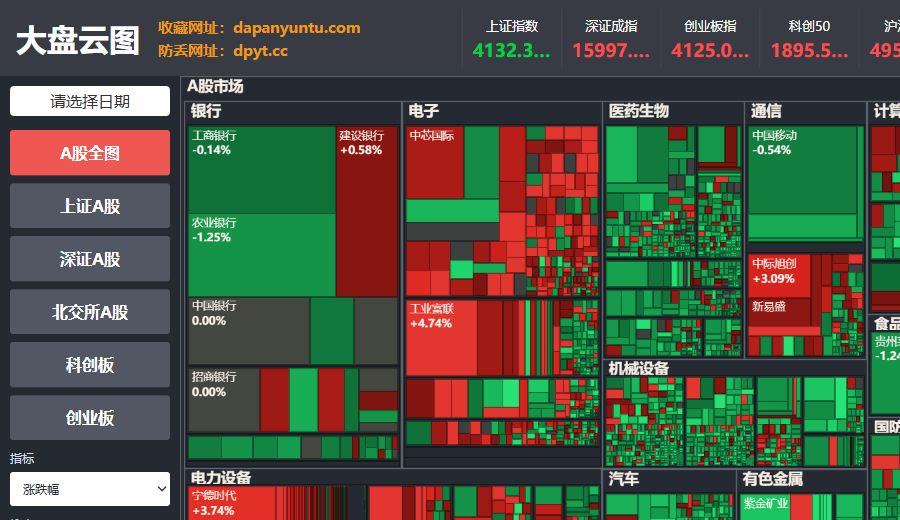
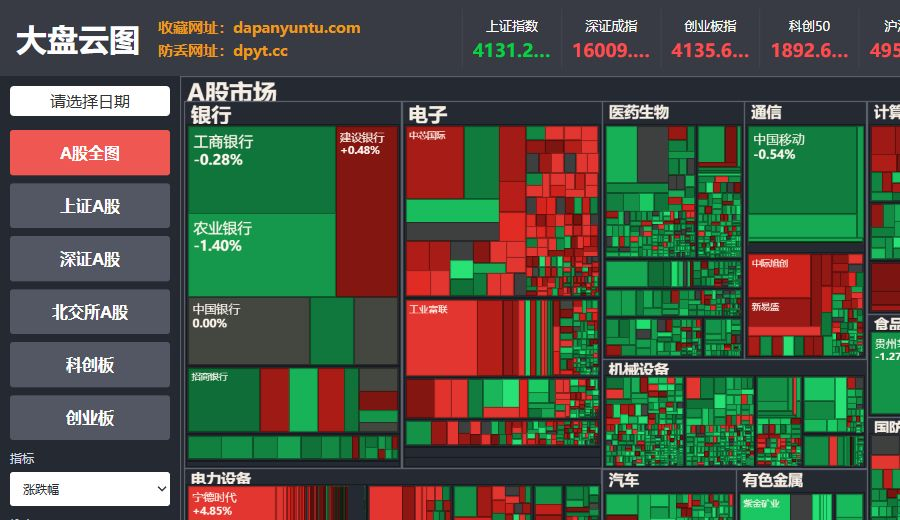
Scale stock label text by tile size

diff --git a/app.js b/app.js
@@ -227,12 +227,10 @@
       ctx.strokeRect(Math.round(r.x) + 0.5, Math.round(r.y) + 0.5, Math.max(0, Math.ceil(r.w) - 1), Math.max(0, Math.ceil(r.h) - 1));
 
       if (rect.node.depth <= 1 && r.w > 48 && r.h > 23) {
-        drawText(rect.node.name, r.x + 7, r.y + 15, Math.min(15, Math.max(11, r.h * 0.2)), "#f6eee4", true);
+        const size = Math.min(24, Math.max(15, Math.sqrt(r.w * r.h) / 14));
+        drawFittedText(rect.node.name, r.x + 7, r.y + size + 1, r.w - 14, size, "#f6eee4", true);
       } else if (!rect.node.children && r.w > 46 && r.h > 24) {
-        drawText(rect.node.name, r.x + 4, r.y + 13, 11, "#fff7ee", false);
-        if (r.w > 58 && r.h > 38) {
-          drawText(formatValue(perf.value), r.x + 4, r.y + 28, 11, "#fff7ee", true);
-        }
+        drawStockLabel(rect.node, perf, r);
       }
 
       if (state.selected && state.selected.id === rect.node.id) {
@@ -250,6 +248,44 @@
     ctx.fillStyle = color;
     ctx.textBaseline = "alphabetic";
     ctx.fillText(String(text), x, y);
+  }
+
+  function drawFittedText(text, x, y, maxWidth, size, color, bold) {
+    const value = String(text);
+    ctx.font = `${bold ? "700 " : ""}${size}px Microsoft YaHei, Arial`;
+    if (ctx.measureText(value).width <= maxWidth) {
+      drawText(value, x, y, size, color, bold);
+      return;
+    }
+
+    let clipped = value;
+    while (clipped.length > 1 && ctx.measureText(`${clipped}...`).width > maxWidth) {
+      clipped = clipped.slice(0, -1);
+    }
+    drawText(clipped.length > 1 ? `${clipped}...` : clipped, x, y, size, color, bold);
+  }
+
+  function stockFontSize(rect) {
+    const area = rect.w * rect.h;
+    const base = Math.sqrt(area) / 7.6;
+    const edgeLimit = Math.min(rect.w / 5.6, rect.h / 2.55);
+    return Math.max(9, Math.min(30, base, edgeLimit));
+  }
+
+  function drawStockLabel(node, perf, rect) {
+    const fontSize = stockFontSize(rect);
+    const lineHeight = Math.round(fontSize * 1.18);
+    const pad = Math.max(3, Math.min(8, fontSize * 0.38));
+    const maxWidth = rect.w - pad * 2;
+    const canShowValue = rect.h >= pad * 2 + lineHeight * 2 - 1 && rect.w > 42;
+    const canShowName = rect.h >= pad * 2 + lineHeight && rect.w > 36;
+
+    if (!canShowName) return;
+    drawFittedText(node.name, rect.x + pad, rect.y + pad + fontSize, maxWidth, fontSize, "#fff7ee", false);
+
+    if (!canShowValue || fontSize < 10) return;
+    const valueSize = Math.max(9, Math.min(fontSize * 0.94, rect.h / 3.4));
+    drawFittedText(formatValue(perf.value), rect.x + pad, rect.y + pad + fontSize + lineHeight, maxWidth, valueSize, "#fff7ee", true);
   }
 
   function formatValue(value) {
